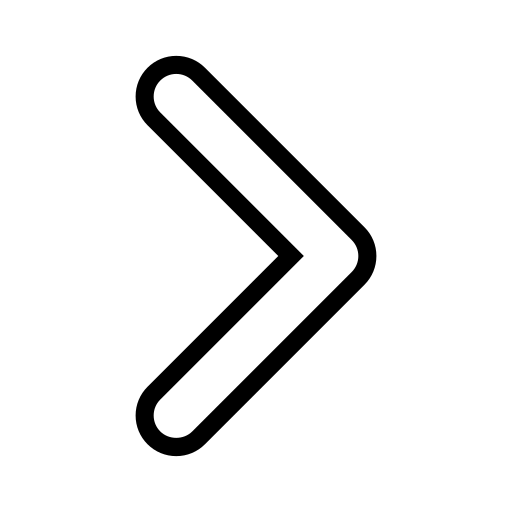
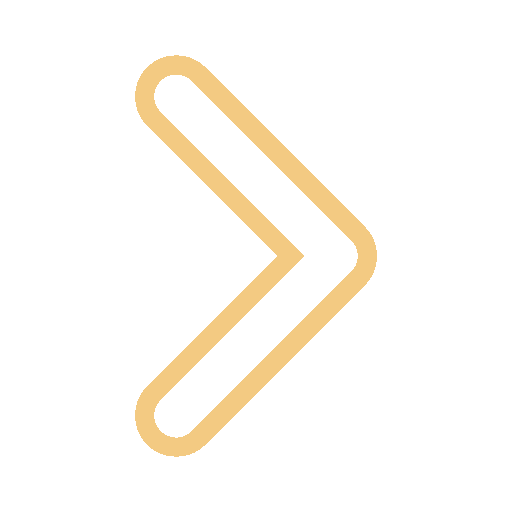
Fixed cursor and changed color of arrows

Changed region(s): [[0.25, 0.0938, 0.75, 0.9062]]

diff --git a/css/master.css b/css/master.css
@@ -67,10 +67,12 @@ nav{
   font-weight: 800;
 }
 #logoDiv{
+  cursor: pointer;
   height: 123px;
   width: 123px;
 }
 #pageName{
+  cursor: pointer;
   align-self: center;
   justify-self: center;
   font-size: 72px;
@@ -80,6 +82,7 @@ nav{
   font-size: 250%;
 }
 #articleBox{
+  cursor: pointer;
   font-weight: 800;
   width: 150px;
   height: 50px;
@@ -124,6 +127,7 @@ nav{
   overflow: hidden;
 }
 #slider{
+  cursor: pointer;
   margin-top: 18vh;
   margin-left: 15%;
   height: 70vh;
@@ -174,6 +178,7 @@ nav{
   left: 600.5px;
 }
 input[type="radio"]{ 
+  cursor: pointer;
   appearance:unset;
   padding: 8px;
   background-color: #091d38;
